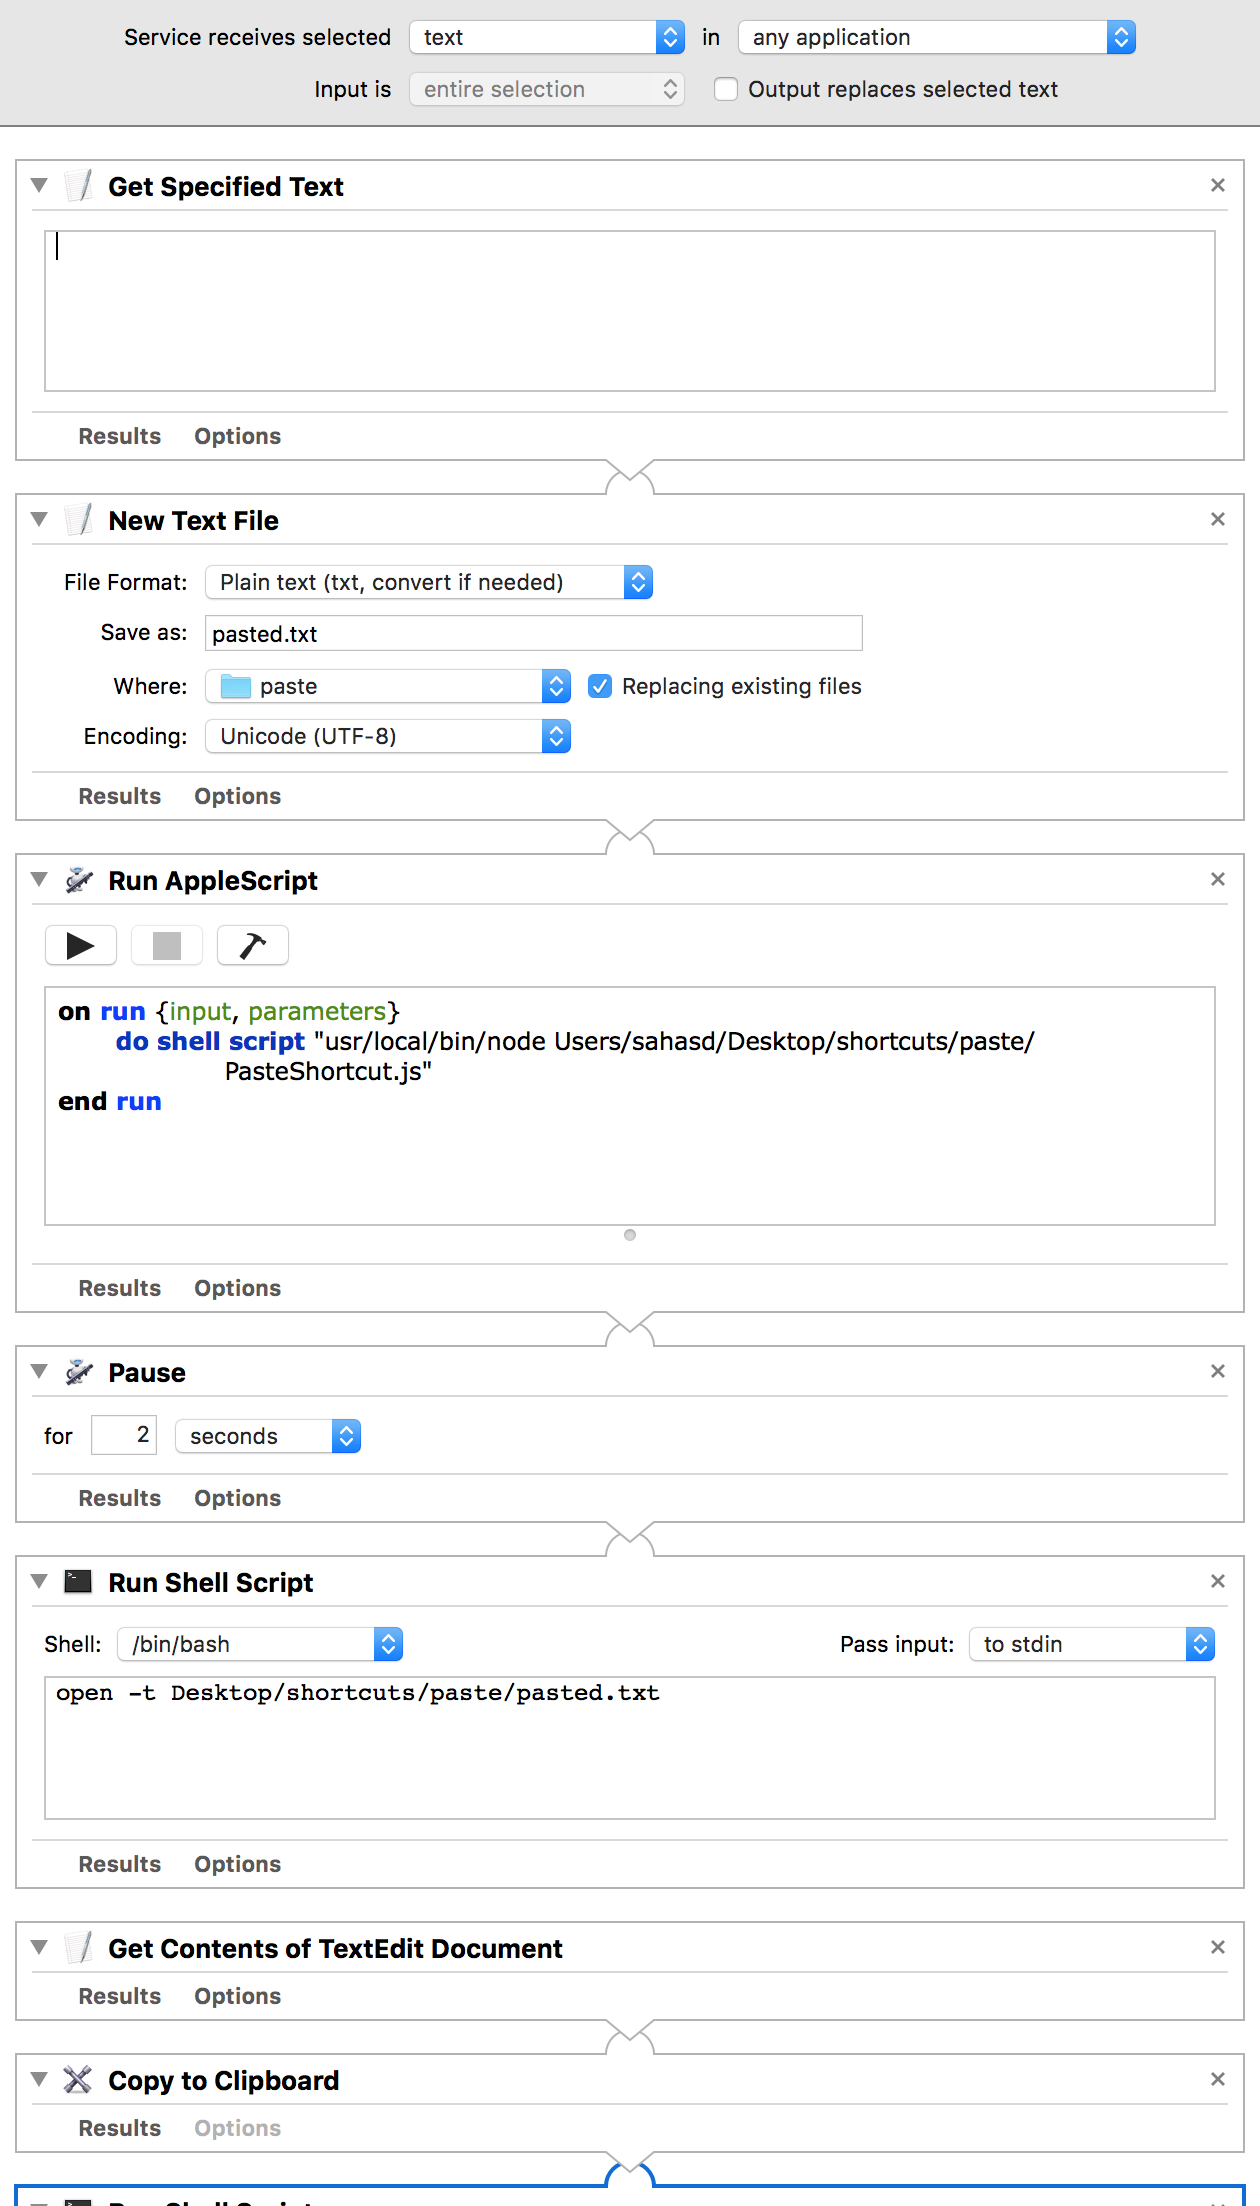
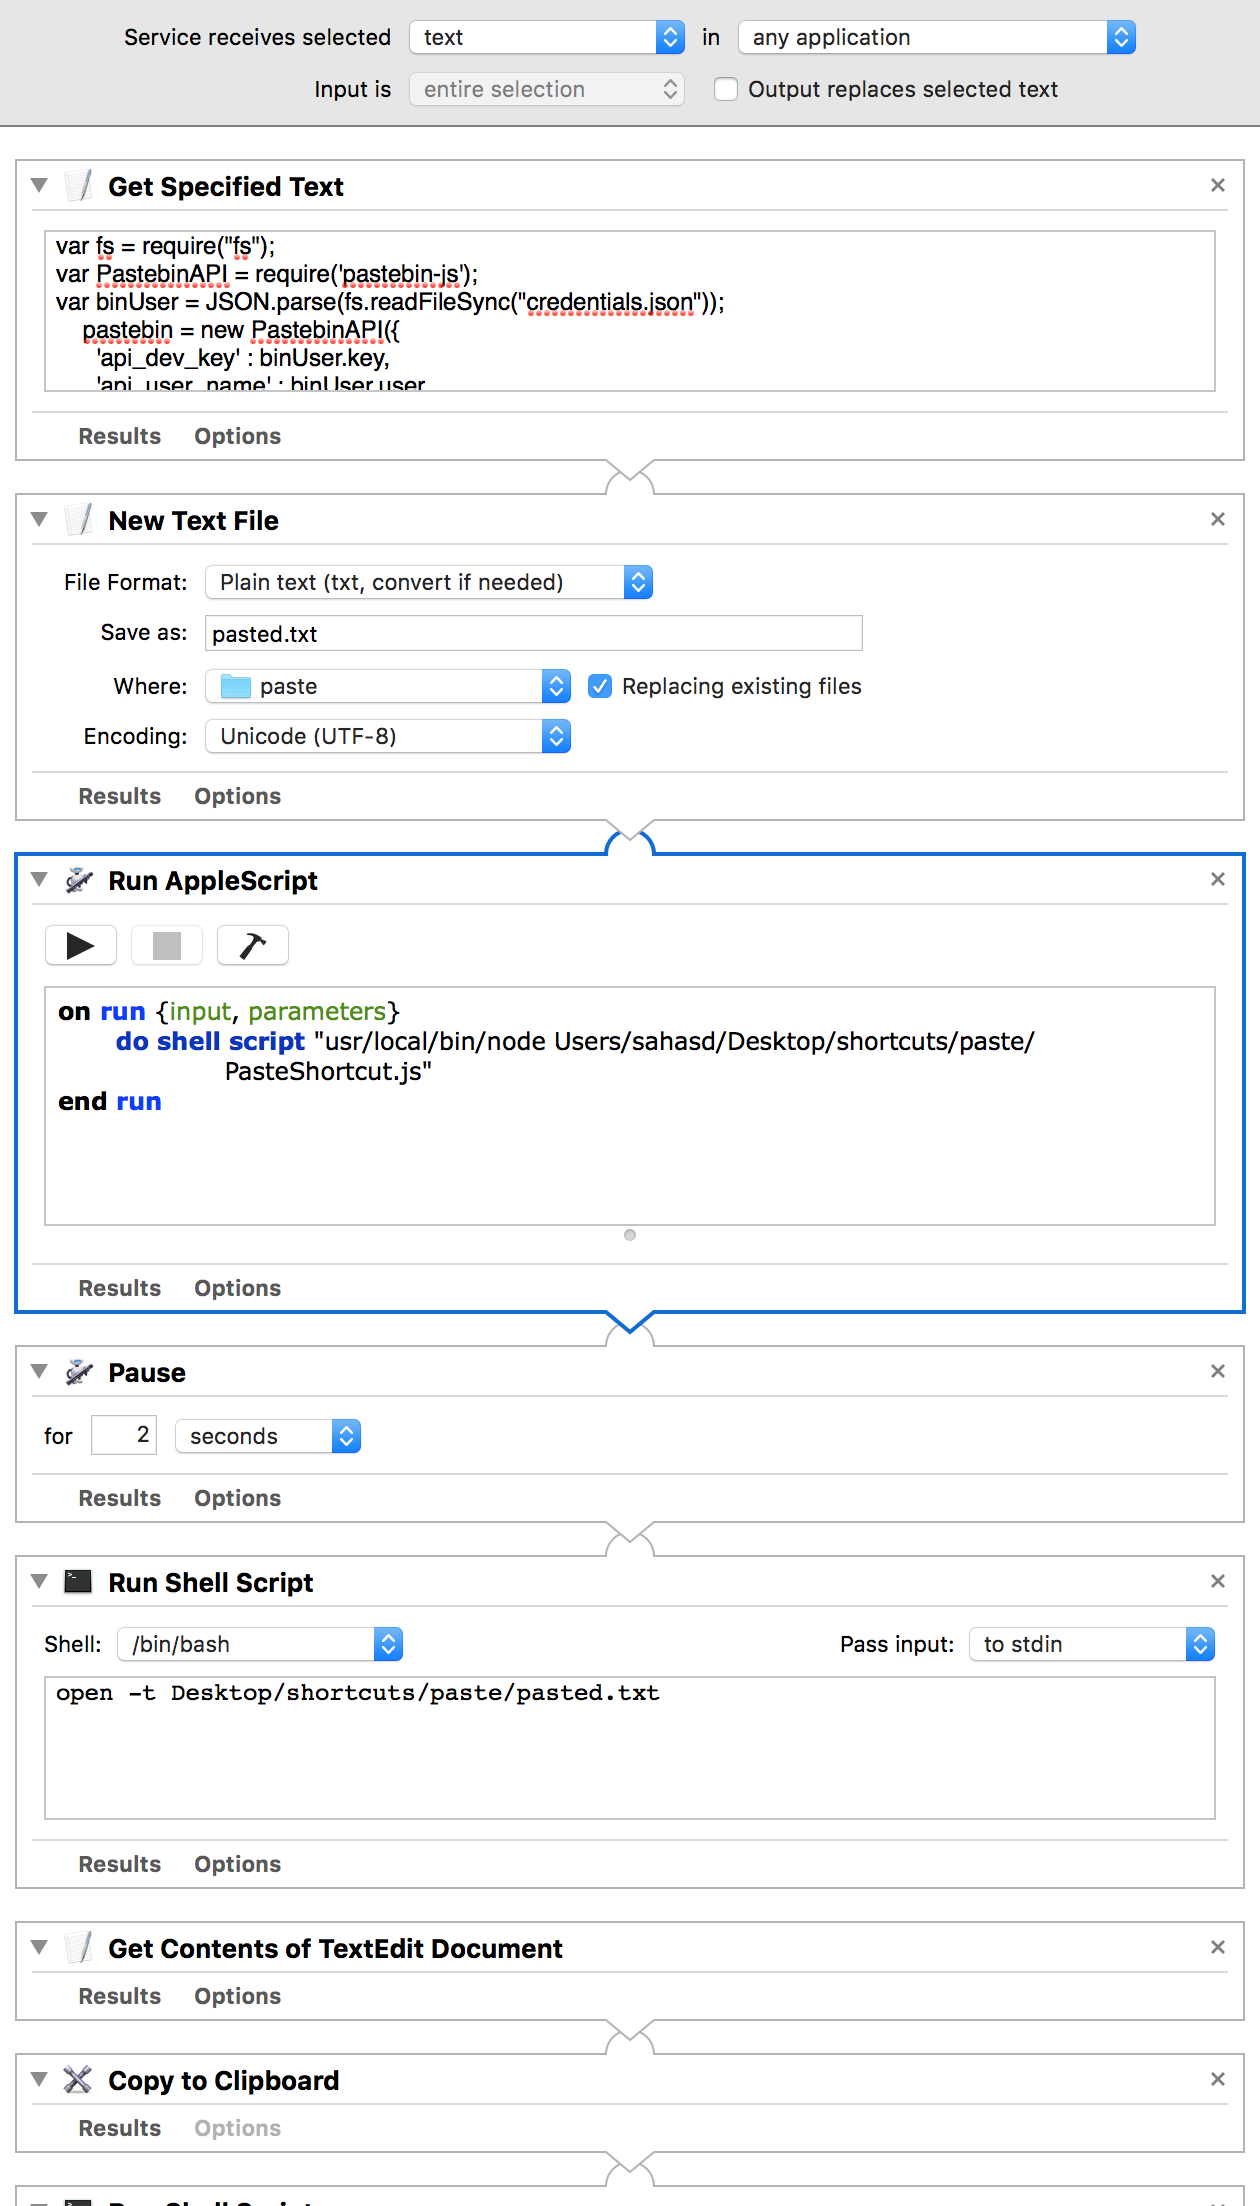
Finished paste shortcut

diff --git a/paste/PasteShortcut.js b/paste/PasteShortcut.js
@@ -1,7 +1,19 @@
 var fs = require("fs");
-fs.writeFile("paste.txt", "google.com", function (err){
-	if (err) {
-		return console.log(err);
-	}
-	console.log("The file was completed");
-});
+var PastebinAPI = require('pastebin-js');
+var binUser = JSON.parse(fs.readFileSync("credentials.json"));
+    pastebin = new PastebinAPI({
+      'api_dev_key' : binUser.key,
+      'api_user_name' : binUser.user,
+      'api_user_password' : binUser.pass
+    });
+pastebin.createPasteFromFile("pasted.txt", "pastebin-js test", null, 1, "N")
+    .then(function (data) {
+        fs.writeFile("pasted.txt", "pastebin.com/" + data, function (err){
+			if (err) {
+			return console.log(err);
+			}
+			console.log("pastebin.com/" + data);
+		});
+    });
+
+
